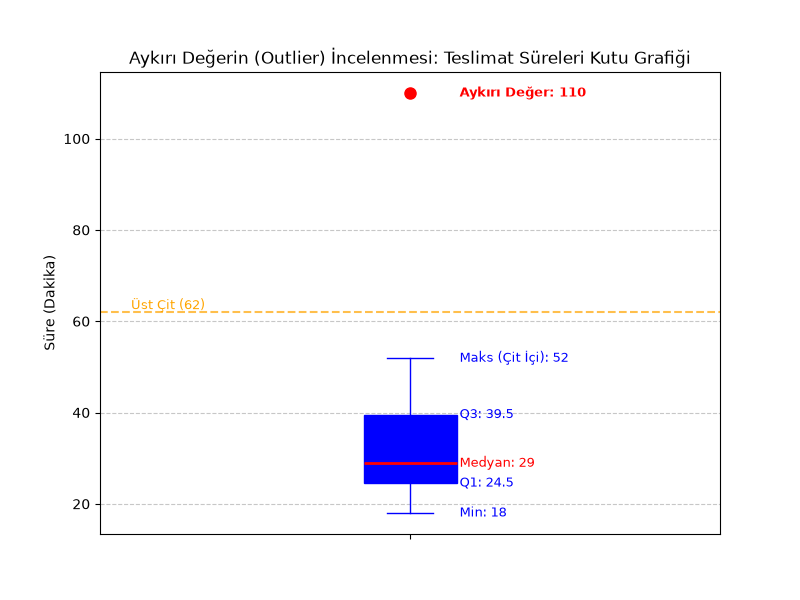
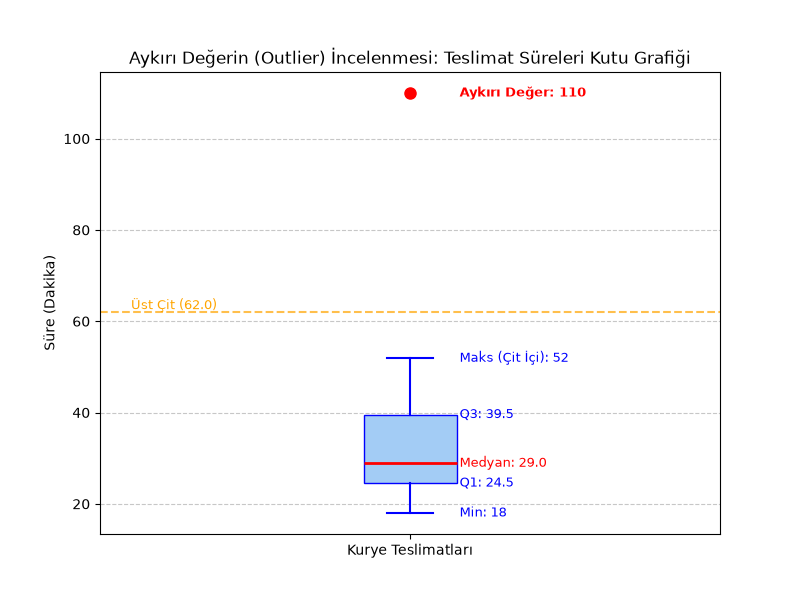
Refactor outlier boxplot to use dynamic raw data

diff --git a/02-understanding-data/plot_boxplot_outlier.py b/02-understanding-data/plot_boxplot_outlier.py
@@ -1,55 +1,67 @@
 import matplotlib.pyplot as plt
+import numpy as np
 
-# Yeni senaryodaki değerler (Aykırı Değerli)
-# Q1: 24.5
-# Medyan (Q2): 29
-# Q3: 39.5
-# Üst çit (Upper Fence): 62
-# Aykırı Değer: 110
-# Çit içindeki normal max değer (whishi): 52
-# Çit içindeki normal min değer (whislo): 18
-
-stats = [{
-    'label': '',
-    'med': 29,
-    'q1': 24.5,
-    'q3': 39.5,
-    'whislo': 18,
-    'whishi': 52,
-    'fliers': [110] # Aykırı değerler listesi
-}]
+# Yeni senaryodaki ham veri seti (Aykırı Değerli)
+teslimat_sureleri = [18, 20, 21, 22, 23, 25, 26, 27, 28, 29, 29, 31, 33, 36, 39, 41, 45, 48, 52, 110]
 
 fig, ax = plt.subplots(figsize=(8, 6))
 
-# Kutu içi dolu ve mavi şeffaf yapıldı (RGBA: (0, 0, 1, 0.3))
-ax.bxp(stats, patch_artist=True, 
-        boxprops=dict(facecolor=(0.1, 0.5, 0.9, 0.4), color='blue'),
-        whiskerprops=dict(color='blue'),
-        capprops=dict(color='blue'),
-        medianprops=dict(color='red', linewidth=2),
-        flierprops=dict(marker='o', markerfacecolor='red', markeredgecolor='red', markersize=8))
+# ax.boxplot ile ham veriden kutu grafiği çizimi
+box = ax.boxplot(teslimat_sureleri, patch_artist=True)
+
+# Kutunun ve çizgilerin renklerini ayarlama
+for patch in box['boxes']:
+    patch.set_facecolor((0.1, 0.5, 0.9, 0.4))  # Mavi şeffaf dolgu
+    patch.set_edgecolor('blue')
+
+for median in box['medians']:
+    median.set(color='red', linewidth=2)
+
+for whisker in box['whiskers']:
+    whisker.set(color='blue', linewidth=1.5)
+    
+for cap in box['caps']:
+    cap.set(color='blue', linewidth=1.5)
+
+# Aykırı değerlerin (fliers) stilini ayarlama
+for flier in box['fliers']:
+    flier.set(marker='o', markerfacecolor='red', markeredgecolor='red', markersize=8)
+
+# NumPy ile verinin istatistiklerini hesaplıyoruz (Grafiğe yazdırmak için)
+q1 = np.percentile(teslimat_sureleri, 25)
+med = np.median(teslimat_sureleri)
+q3 = np.percentile(teslimat_sureleri, 75)
+iqr = q3 - q1
+upper_fence = q3 + 1.5 * iqr
+
+# Matplotlib'in hesapladığı çit içi min ve max değerler
+min_val = box['caps'][0].get_ydata()[0]
+max_val = box['caps'][1].get_ydata()[0]
 
 # Değerleri grafik üzerinde minik şekilde gösterme
 x_pos = 1.08 # Metinleri daha yakına alıyoruz
-ax.text(x_pos, stats[0]['med'], f"Medyan: {stats[0]['med']}", va='center', fontsize=9, color='red')
-ax.text(x_pos, stats[0]['q1'], f"Q1: {stats[0]['q1']}", va='center', fontsize=9, color='blue')
-ax.text(x_pos, stats[0]['q3'], f"Q3: {stats[0]['q3']}", va='center', fontsize=9, color='blue')
-ax.text(x_pos, stats[0]['whislo'], f"Min: {stats[0]['whislo']}", va='center', fontsize=9, color='blue')
-ax.text(x_pos, stats[0]['whishi'], f"Maks (Çit İçi): {stats[0]['whishi']}", va='center', fontsize=9, color='blue')
+ax.text(x_pos, med, f"Medyan: {med}", va='center', fontsize=9, color='red')
+ax.text(x_pos, q1, f"Q1: {q1}", va='center', fontsize=9, color='blue')
+ax.text(x_pos, q3, f"Q3: {q3}", va='center', fontsize=9, color='blue')
+ax.text(x_pos, min_val, f"Min: {min_val}", va='center', fontsize=9, color='blue')
+ax.text(x_pos, max_val, f"Maks (Çit İçi): {max_val}", va='center', fontsize=9, color='blue')
 
 # Aykırı değer (flier) için metin ekleme
-ax.text(x_pos, stats[0]['fliers'][0], f"Aykırı Değer: {stats[0]['fliers'][0]}", va='center', fontsize=9, color='red', fontweight='bold')
+fliers = box['fliers'][0].get_ydata()
+for flier_val in fliers:
+    ax.text(x_pos, flier_val, f"Aykırı Değer: {flier_val}", va='center', fontsize=9, color='red', fontweight='bold')
 
-# Üst çiti temsil eden temsili bir kesik çizgi ekleyelim
-upper_fence = 62
+# Üst çiti temsil eden kesik çizgi ekleyelim
 ax.axhline(y=upper_fence, color='orange', linestyle='--', linewidth=1.5, alpha=0.7)
-ax.text(0.55, upper_fence, f"Üst Çit (62)", va='bottom', fontsize=9, color='orange')
+ax.text(0.55, upper_fence, f"Üst Çit ({upper_fence})", va='bottom', fontsize=9, color='orange')
 
 # Eksen ve başlık ayarları
 ax.set_ylabel('Süre (Dakika)')
 ax.set_title('Aykırı Değerin (Outlier) İncelenmesi: Teslimat Süreleri Kutu Grafiği')
+ax.set_xticklabels(['Kurye Teslimatları'])
 ax.grid(axis='y', linestyle='--', alpha=0.7)
 
 # Grafiği kaydet
 fig.savefig('boxplot_outlier.png')
-print("Aykırı değerli kutu grafiği (boxplot_outlier.png) başarıyla oluşturuldu ve kaydedildi.")
+print("Aykırı değerli kutu grafiği (boxplot_outlier.png) ham veri kullanılarak başarıyla oluşturuldu ve kaydedildi.")
+
